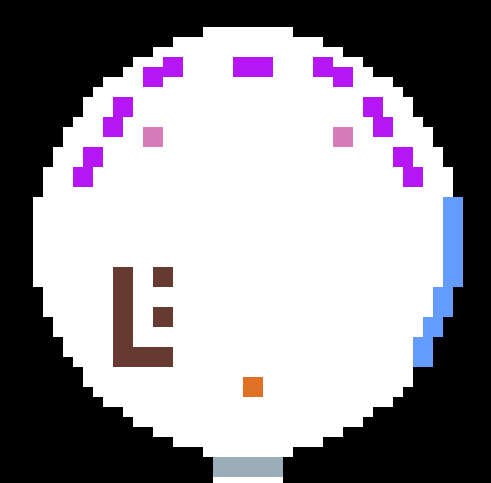
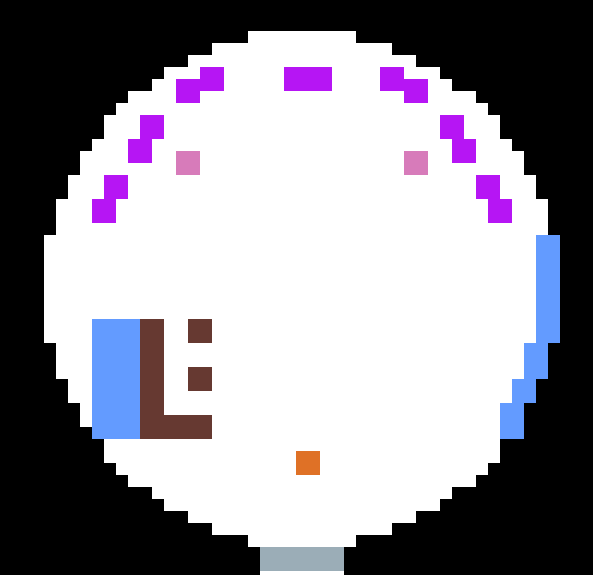
#20 Added layout for mess hall and computer core
Also added an oxygenator (instead of just interactable oxygen tanks) to oxygenator room.

diff --git a/concept/README.md b/concept/README.md
@@ -96,12 +96,18 @@ Research Lab | 1 Normal, 1 Red, 1 Green, 1 Large + Recoil avoidance + Grav Plati
     * [ ] The player has to run around the tables, but the big spiders can run over them. The player moves at the same speed as the spider, so the spiders will eventually catch the player if they don't use the recoil gun to move faster.
     * [ ] There will be an interactible flame in the kitchen part. If the player interacts with it, they have a flaming torch they carry around with them. They can then interact with one of the tables (at which point the torch disappears) and this becomes the hazard they can kite the big spider onto.
     * [ ] Upon level complete, the table will be destroyed and the flame will go out.
+
+    ![Mess Hall](images/05_mess_hall_layout.png)
+
+
 1. ### Computer Core
     * Unlock doors to sealed rooms
     * [ ] Interactible computer will unlock all doors in the compound (except the top secret research lab). This won't check off an objective on the quest tracker - it will just enable the player to proceed.
         * *Discussion* - To prevent the player from skipping to the hard zones, should we have the computer be "Rebooting..." until they have completed Rooms 1-5 first?
     * [ ] Several computer workstations (all except for the interactible one) has been destroyed by the spiders and are sparking. The squares adjacent to the consoles are hazards. The room is smaller, and recoiling into the computer spark range becomes a real hazard.
-        * [ ] Bonus scope creep: The size of the sparks might vary in a pattern. 2 squares out twice, then 1 square out, then 0 squares out. Repeat.
+        * [ ] ~~Bonus scope creep: The size of the sparks might vary in a pattern. 2 squares out twice, then 1 square out, then 0 squares out. Repeat.~~ MNG: After designing the graphic, this zone feels that it's likely deadly enough. Probably don't need this.
+
+    ![Mess Hall](images/05_mess_hall_layout.png)
 1. ### Reactor Room (*)
     * Power up the ship!
     * [ ] Interactible: Reaching the end of this level and triggering the console will power up the ship and check off an item on the pre-flight checklist.
